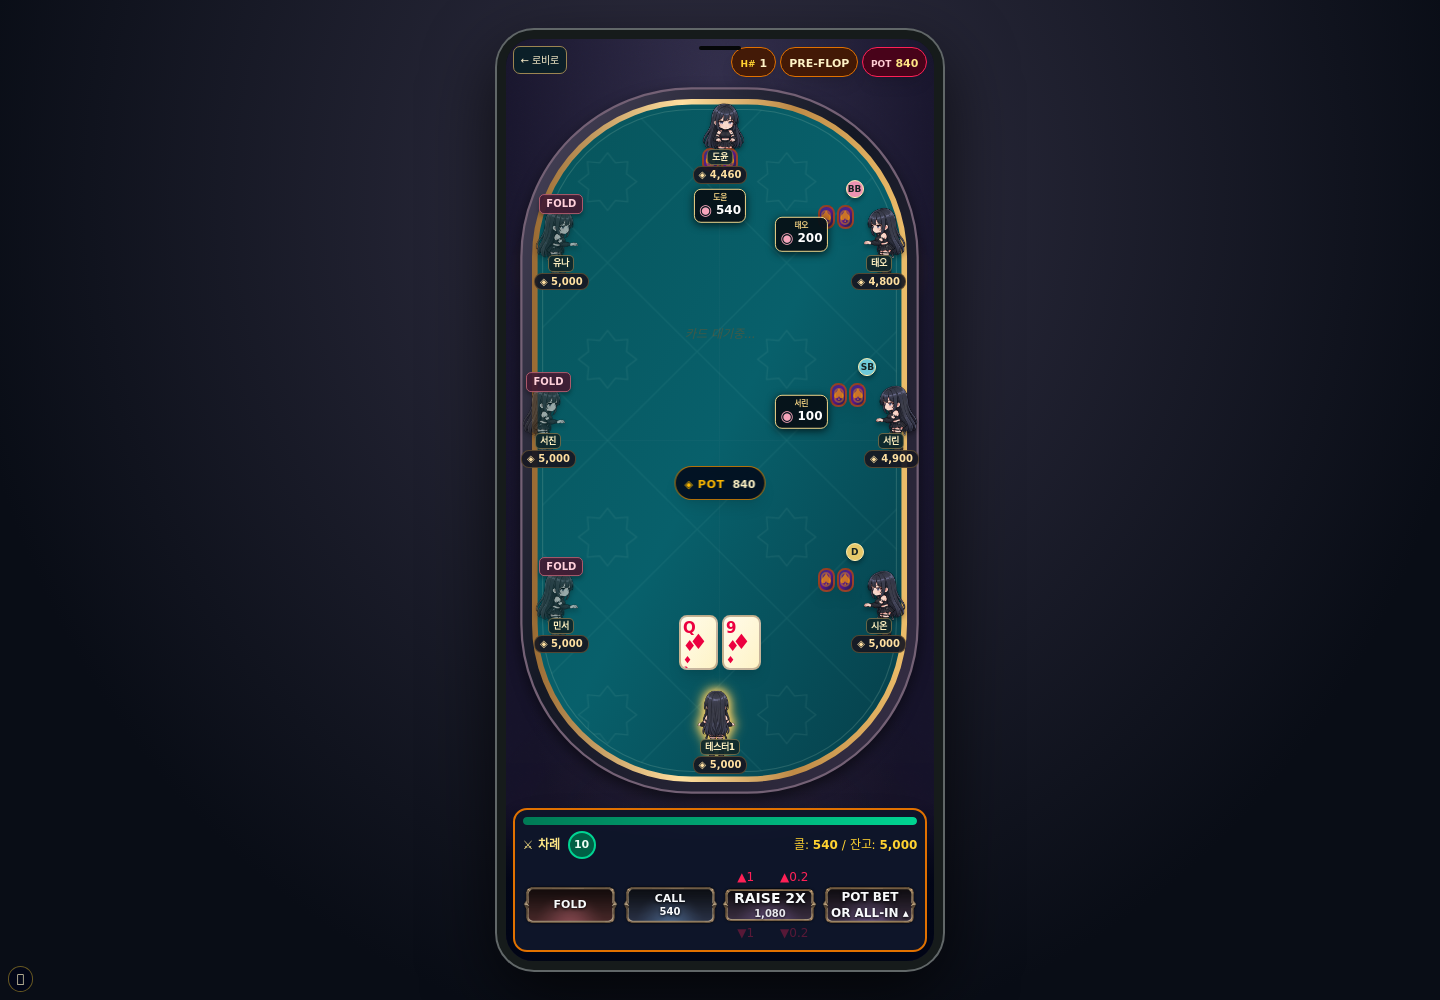
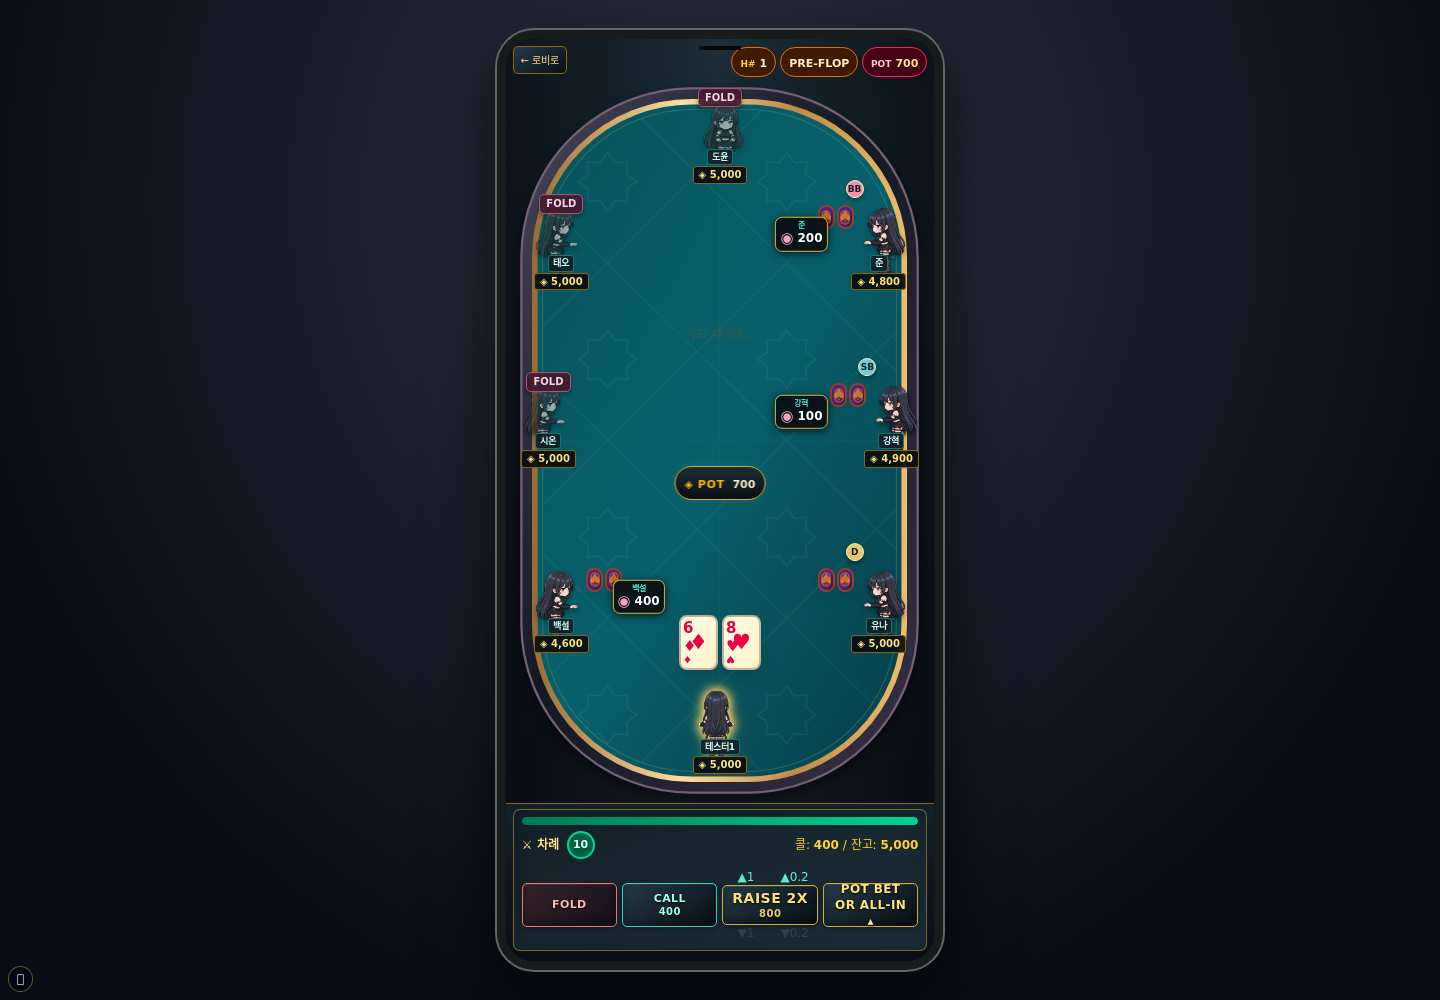
ui: unify poker and RPG with gold and teal reference theme

diff --git a/src/app/island-theme.css b/src/app/island-theme.css
@@ -1,0 +1,146 @@
+/* Visual language from island_holdem_rpg_ui.html. Game layout and rules stay local
+   to each feature. Selectors deliberately exclude the battle canvas / art. */
+:root {
+  --island-deep: #0a0e14;
+  --island-panel: #142028;
+  --island-elevated: #1c2e38;
+  --island-gold: #d4af37;
+  --island-gold-bright: #ffe27a;
+  --island-gold-dim: #8b6914;
+  --island-teal: #2dd4bf;
+  --island-teal-bright: #5eead4;
+  --island-muted: #94a3b8;
+}
+
+/* One CSS button skin also works inside portalled poker menus. */
+button.island-action {
+  --action-edge: var(--island-gold);
+  --action-text: var(--island-gold-bright);
+  color: var(--action-text);
+  background: linear-gradient(145deg, #243a48, #0a0e14);
+  border: 1px solid var(--action-edge);
+  border-radius: 5px;
+  box-shadow: inset 0 1px 0 #ffffff15, inset 0 -3px 8px #0005, 0 2px 5px #0005;
+  text-shadow: 0 1px 2px #000;
+  font-variant-numeric: tabular-nums;
+  letter-spacing: .035em;
+}
+button.island-action-blue { --action-edge: #2dd4bf; --action-text: #a5fff0; }
+button.island-action-red { --action-edge: #f87171; --action-text: #ffb6b6; background: linear-gradient(145deg,#38232c,#130f18); }
+button.island-action:enabled:hover { filter: brightness(1.17); box-shadow: inset 0 1px 0 #ffffff20, 0 0 9px color-mix(in srgb,var(--action-edge) 28%,transparent); }
+button.island-action:enabled:active { filter: brightness(.9); }
+button.island-action:disabled { cursor: not-allowed; box-shadow: none; }
+button.island-action:focus-visible,
+:is(.hunt-device,.island-lobby,.island-start,.poker-device,.poker-pot-menu) :is(button,a,input):focus-visible {
+  outline: 2px solid var(--island-teal-bright); outline-offset: 3px;
+}
+
+/* Lobby keeps its illustration and background, with the same panel vocabulary. */
+.island-lobby .island-dialogue,
+.island-lobby .lobby-name-form,
+.island-lobby .lobby-overlay>section,
+.island-modal>section {
+  color: #e0e0e0;
+  background: linear-gradient(160deg,#142028f5,#1c2e38f5);
+  border: 1px solid var(--island-gold);
+  border-radius: 8px;
+  box-shadow: inset 0 0 20px #0005,0 0 15px #d4af3718;
+}
+.island-lobby .island-dialogue>span { color: var(--island-teal-bright); }
+.island-lobby .island-dialogue h1 { color: var(--island-gold-bright); }
+.island-lobby .island-modes button,
+.island-lobby .island-tournament,
+.island-lobby .lobby-shop-buttons button,
+.island-lobby .lobby-rank-button,
+.island-lobby .lobby-name-form button,
+.island-lobby .island-back,
+.island-start .island-entry-buttons button {
+  background: linear-gradient(145deg,#243a48ed,#0a0e14f5);
+  border: 1px solid var(--island-gold);
+  border-radius: 6px;
+  color: var(--island-gold-bright);
+  box-shadow: inset 0 1px 0 #ffffff12,0 3px 10px #0005;
+}
+.island-lobby .island-modes button:first-child { border-color: var(--island-teal); }
+.island-lobby .island-modes small,.island-lobby .island-tournament span { color: #acbfcd; }
+.island-lobby :is(.island-name-input,.lobby-name-form input) { background:#0a0e14; border-color:#8b6914; color:#ffe27a; border-radius:4px; }
+
+/* Poker: retain card / wager positions and the stable action row. */
+.poker-device-stage { background: radial-gradient(ellipse at top,#1a2832,#0a0e14 70%); }
+.poker-device .poker-table-layout.poker-salon { background: radial-gradient(ellipse at top,#1c2e38,#0a0e14 85%); }
+.poker-device .poker-action-area { background: linear-gradient(#142028,#0a0e14); border-top:1px solid #8b6914; }
+.poker-device .poker-action-area>div>div {
+  background: linear-gradient(160deg,#142028,#1c2e38);
+  border:1px solid #d4af3780; border-radius:7px; box-shadow:inset 0 0 20px #0003;
+}
+.poker-device .poker-room-exit,
+.poker-device .island-preaction { background:linear-gradient(145deg,#243a48,#0a0e14); border:1px solid #8b6914; border-radius:5px; color:#ffe27a; }
+.poker-device .poker-raise-control>div>button { color:#5eead4; }
+.poker-device .poker-raise-control>div>button:disabled { color:#64748b; }
+.poker-device .poker-pot>div { background:linear-gradient(#1c2e38,#0a0e14); border-color:#d4af37; box-shadow:0 0 10px #d4af3720; }
+.poker-device .poker-bet { background:#0a0e14ed; border-color:#d4af37; color:#ffe27a; font-variant-numeric:tabular-nums; }
+.poker-device .poker-bet-owner { color:#5eead4; }
+.poker-device .salon-seat-info strong { background:#142028ed; border-color:#2dd4bf70; color:#d4fff8; border-radius:3px; }
+.poker-device .salon-seat-info span { background:#0a0e14ed; border-color:#8b6914; color:#ffe27a; border-radius:3px; }
+.poker-pot-menu.poker-pot-menu { background:linear-gradient(#142028,#0a0e14); border:1px solid #d4af37; border-radius:6px; color:#e0e0e0; box-shadow:0 0 16px #0009; }
+
+/* RPG: the existing portrait viewport and responsive control geometry are kept. */
+.hunt-device-stage { background:radial-gradient(ellipse at top,#1a2832,#0a0e14 70%); }
+.hunt-device .hunt-shell { color:#e0e0e0; background:#0a0e14; }
+.hunt-device .hunt-header,
+.hunt-device .hunt-footer,
+.hunt-device .hunt-selection-start { background:linear-gradient(#142028,#0a0e14); border-color:#8b6914; }
+.hunt-device .hunt-console {
+  border-top:1px solid #d4af37;
+  background:linear-gradient(#142028,#1c2e38);
+  box-shadow:inset 0 0 28px #0004;
+}
+.hunt-device .hunt-lower { background:#142028; }
+.hunt-device .hunt-identity { background:#142028e8; border-color:#d4af37; }
+.hunt-device .hunt-identity>img { border-color:#d4af37; }
+.hunt-device .hunt-identity strong { color:#ffe27a; }
+.hunt-device .hunt-identity small,.hunt-device .hunt-location>small { color:#5eead4; }
+.hunt-device .hunt-currencies>span { background:#0a0e14; border-color:#8b6914; border-radius:4px; color:#ffe27a; font-variant-numeric:tabular-nums; }
+.hunt-device :is(.hunt-back,.hunt-menu-toggle,.hunt-drawer button,.hunt-mode-row button,.hunt-footer button,.hunt-window-content button,.armory-actions button,.armory-armor button,.development-row button,.development-feature>button,.development-traits>button,.hunt-selection-start button) {
+  color:#ffe27a; background:linear-gradient(145deg,#243a48,#0a0e14);
+  border:1px solid #8b6914; border-radius:5px; box-shadow:inset 0 1px 0 #ffffff12;
+}
+.hunt-device :is(.hunt-footer button[aria-pressed=true],.hunt-mode-row button.is-on,.development-tabs button[aria-pressed=true],.armory-categories button[aria-pressed=true],.development-batches button[aria-pressed=true]) {
+  color:#5eead4; border-color:#2dd4bf; background:#2dd4bf14; box-shadow:inset 0 -2px 0 #2dd4bf;
+}
+.hunt-device .hunt-footer button { border-color:transparent; }
+.hunt-device .hunt-skill { padding:3px; background:linear-gradient(#243a48,#0a0e14); border:1px solid #2dd4bf; border-radius:5px; box-shadow:0 0 7px #2dd4bf22; }
+.hunt-device .hunt-skill>img { border-radius:2px; }
+.hunt-device .hunt-skill>span { color:#ffe27a; background:#0a0e14dc; padding:1px 3px; border-radius:2px; font-family:var(--font-geist-mono),monospace; }
+.hunt-device .hunt-skill[aria-pressed=true] { outline-color:#ffe27a; border-color:#d4af37; }
+.hunt-device .hunt-skill-reserved { color:#5eead4; background:#0a0e14ed; }
+.hunt-device :is(.hunt-dodge,.hunt-parry) { color:#5eead4; border:1px solid #2dd4bf; background:radial-gradient(at 35% 20%,#243a48,#0a0e14); box-shadow:inset 0 0 10px #2dd4bf15,0 0 7px #2dd4bf15; }
+.hunt-device .hunt-joystick { background:#0a0e1460; border-color:#2dd4bf66; }
+.hunt-device .hunt-stick { border-color:#5eead4; background:radial-gradient(at 35% 25%,#5eead4,#142028); }
+.hunt-device .hunt-stick-rail { color:#5eead477; }
+.hunt-device .hunt-vitals span { color:#94a3b8; }
+.hunt-device .hunt-vitals meter { accent-color:#dc2626; }
+.hunt-device .hunt-vitals meter::-webkit-meter-bar { background:#0a0e14; border:0; }
+.hunt-device .hunt-vitals meter::-webkit-meter-optimum-value { background:linear-gradient(90deg,#dc2626,#f87171); }
+.hunt-device .hunt-vitals meter::-moz-meter-bar { background:linear-gradient(90deg,#dc2626,#f87171); }
+.hunt-device .hunt-vitals progress { accent-color:#a855f7; }
+.hunt-device .hunt-vitals progress::-webkit-progress-value { background:linear-gradient(90deg,#a855f7,#c084fc); }
+.hunt-device .hunt-vitals progress::-moz-progress-bar { background:linear-gradient(90deg,#a855f7,#c084fc); }
+.hunt-device :is(.hunt-window,.hunt-armory,.hunt-development) { background:linear-gradient(#142028,#1c2e38); color:#e0e0e0; border-color:#d4af37; }
+.hunt-device :is(.armory-toolbar,.development-header) { background:#0a0e14b0; border-color:#d4af3760; }
+.hunt-device :is(.armory-toolbar strong,.development-header strong,.hunt-window-content h2) { color:#5eead4; }
+.hunt-device :is(.armory-item,.armory-detail-icon,.development-row,.development-traits>button) { background:linear-gradient(#1c2e38,#0a0e14); border:1px solid #8b6914; border-radius:4px; }
+.hunt-device .armory-item.is-selected { outline:2px solid #2dd4bf; background:#2dd4bf15; }
+.hunt-device .armory-equipped { color:#a5fff0; background:#13534e; }
+.hunt-device .armory-upgrade { border-color:#d4af37; color:#ffe27a; }
+.hunt-device .development-batches { background:#0a0e14; }
+.hunt-device .hunt-selection { background:linear-gradient(#0a0e14c9,#142028e8),url('/island/main_bg.jpg') center/cover; }
+.hunt-device .hunt-roster-card { background:#142028; border:1px solid #8b6914; border-radius:6px; }
+.hunt-device .hunt-roster-card.is-selected { border-color:#2dd4bf; box-shadow:0 0 12px #2dd4bf40; }
+.hunt-device .hunt-selection-heading small { color:#5eead4; }
+.hunt-device .hunt-selection-heading h1 { color:#ffe27a; }
+:is(.hunt-device,.poker-device,.island-lobby) button:disabled { cursor:not-allowed; }
+@media(prefers-reduced-motion:no-preference) {
+  :is(.hunt-device,.island-lobby) button { transition:background-color .15s,border-color .15s,filter .15s; }
+  :is(.hunt-device,.island-lobby) button:enabled:hover { filter:brightness(1.12); }
+}

diff --git a/src/components/poker/ActionSkinButton.tsx b/src/components/poker/ActionSkinButton.tsx
@@ -6,9 +6,8 @@ type Props=ButtonHTMLAttributes<HTMLButtonElement>&{skin:ActionSkin};
 
 export function ActionSkinButton({skin,className='',style,children,type='button',...props}:Props) {
   return <button {...props} type={type}
-    className={`relative min-w-0 w-full border-0 bg-transparent rounded-md font-bold text-[10px] sm:text-sm leading-tight text-slate-50 touch-manipulation disabled:opacity-40 enabled:hover:brightness-125 transition-[filter] duration-150 focus-visible:outline-2 focus-visible:outline-offset-2 focus-visible:outline-amber-300 [text-shadow:0_1px_3px_rgba(0,0,0,0.95)] ${className}`}
-    style={{backgroundImage:`url('/ui-buttons/btn-${skin}.png')`,backgroundSize:'100% 100%',
-      backgroundPosition:'center',backgroundRepeat:'no-repeat',...style}}>
+    className={`island-action island-action-${skin} relative min-w-0 w-full rounded-md font-bold text-[10px] sm:text-sm leading-tight touch-manipulation disabled:opacity-40 transition-[filter] duration-150 ${className}`}
+    style={style}>
     <span className="relative flex h-full w-full flex-col items-center justify-center px-2 py-1">{children}</span>
   </button>;
 }

diff --git a/src/app/layout.tsx b/src/app/layout.tsx
@@ -1,6 +1,7 @@
 import type { Metadata } from "next";
 import { Geist, Geist_Mono } from "next/font/google";
 import "./globals.css";
+import "./island-theme.css";
 import { Toaster } from "@/components/ui/toaster";
 
 const geistSans = Geist({

diff --git a/docs/island-theme.md b/docs/island-theme.md
@@ -1,0 +1,7 @@
+# Gold / teal interface pass
+
+Reference: user attachment `island_holdem_rpg_ui.html`.
+
+Shared palette and CSS buttons replace the old raster poker button skin. Applied to lobby, poker actions and portalled pot menu, RPG selection, combat controls, armory and growth panels. Existing handset geometry, art, game rules, damage, AI and cooldown handlers are retained. The reference's demo dealing/inventory JavaScript and external font dependencies are not imported.
+
+Validation: production build and src-only TypeScript check passed. Browser: poker at 360×640, 390×844 and desktop handset, pot menu, fold and lobby return; RPG battle load, armory and growth open/close, no page overflow or JavaScript errors. Screenshots in this directory. Formal verification omitted: presentation-only change, existing state logic unchanged.
